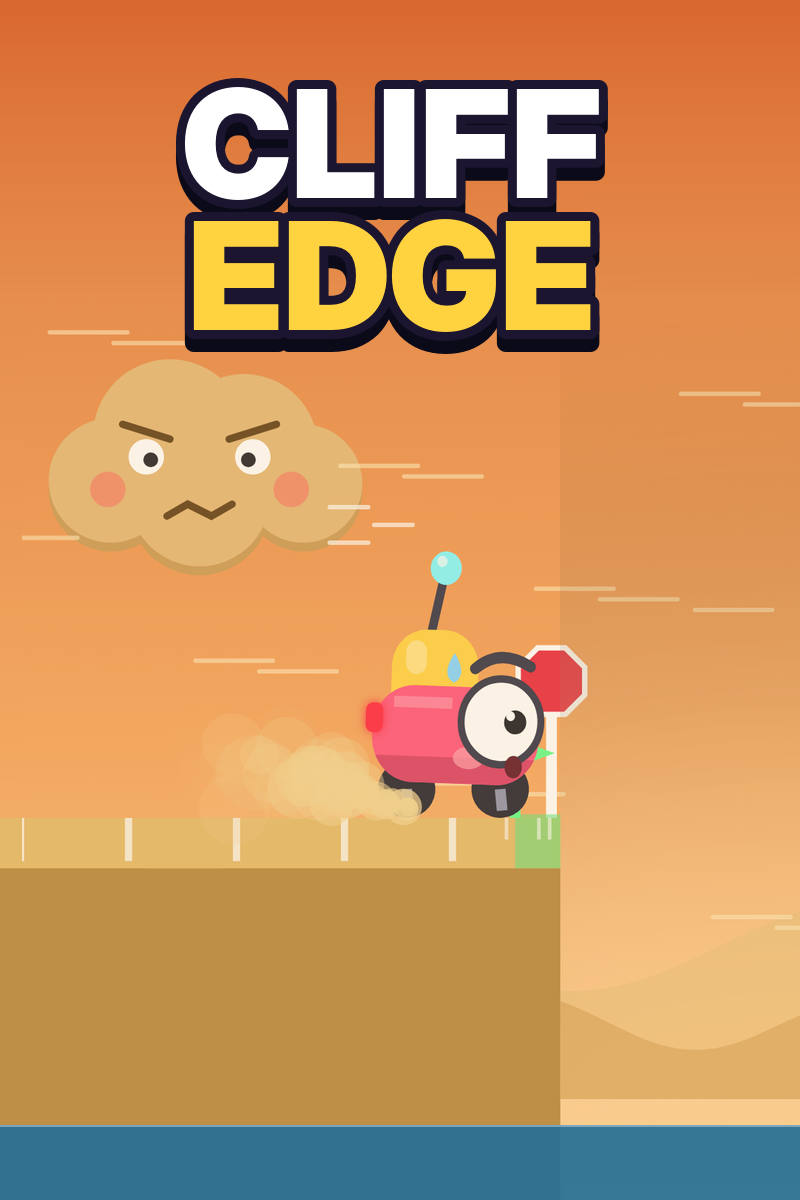
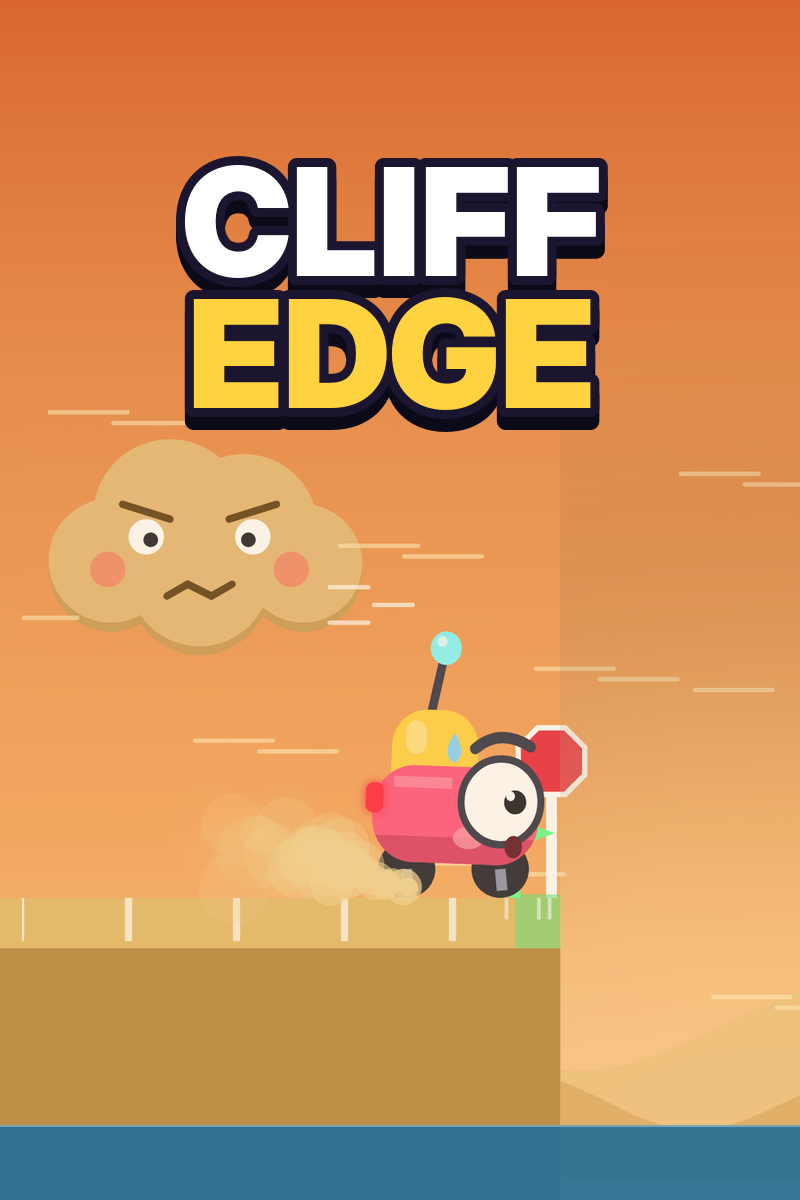
V3 covers: keep the top-left CrazyGames label zone clear (portrait title and square boss moved down)
Claude-Session: https://claude.ai/code/session_01T53819mqepg5qkJj7trGRt

diff --git a/assets/crazygames-v3/src/make_covers_v3.py b/assets/crazygames-v3/src/make_covers_v3.py
@@ -95,8 +95,8 @@ def cover(W, H, k, edge_x, band_top, sea_y, title_xy, title_size, align='left'):
 
 
 cover(1920, 1080, k=0.78, edge_x=1450, band_top=0, sea_y=985, title_xy=(110, 300), title_size=230).save(out + '/cover-landscape-1920x1080.png', optimize=True)
-cover(800, 1200, k=0.74, edge_x=560, band_top=300, sea_y=1125, title_xy=(400, 52), title_size=150, align='center').save(out + '/cover-portrait-800x1200.png', optimize=True)
-cover(800, 800, k=0.56, edge_x=540, band_top=40, sea_y=748, title_xy=(40, 520), title_size=104).save(out + '/cover-square-800x800.png', optimize=True)
+cover(800, 1200, k=0.74, edge_x=560, band_top=380, sea_y=1125, title_xy=(400, 130), title_size=150, align='center').save(out + '/cover-portrait-800x1200.png', optimize=True)   # top-left corner kept clear for CrazyGames labels
+cover(800, 800, k=0.56, edge_x=540, band_top=190, sea_y=748, title_xy=(40, 520), title_size=104).save(out + '/cover-square-800x800.png', optimize=True)   # boss cloud below the label zone
 cover(1080, 1920, k=1.0, edge_x=727, band_top=380, sea_y=1840, title_xy=(540, 110), title_size=200, align='center').save(out + '/src/trailer-end-portrait.png')
 cover(1920, 1080, k=0.78, edge_x=1450, band_top=0, sea_y=985, title_xy=(110, 300), title_size=230).save(out + '/src/trailer-end-landscape.png')
 print('covers written to', out)
